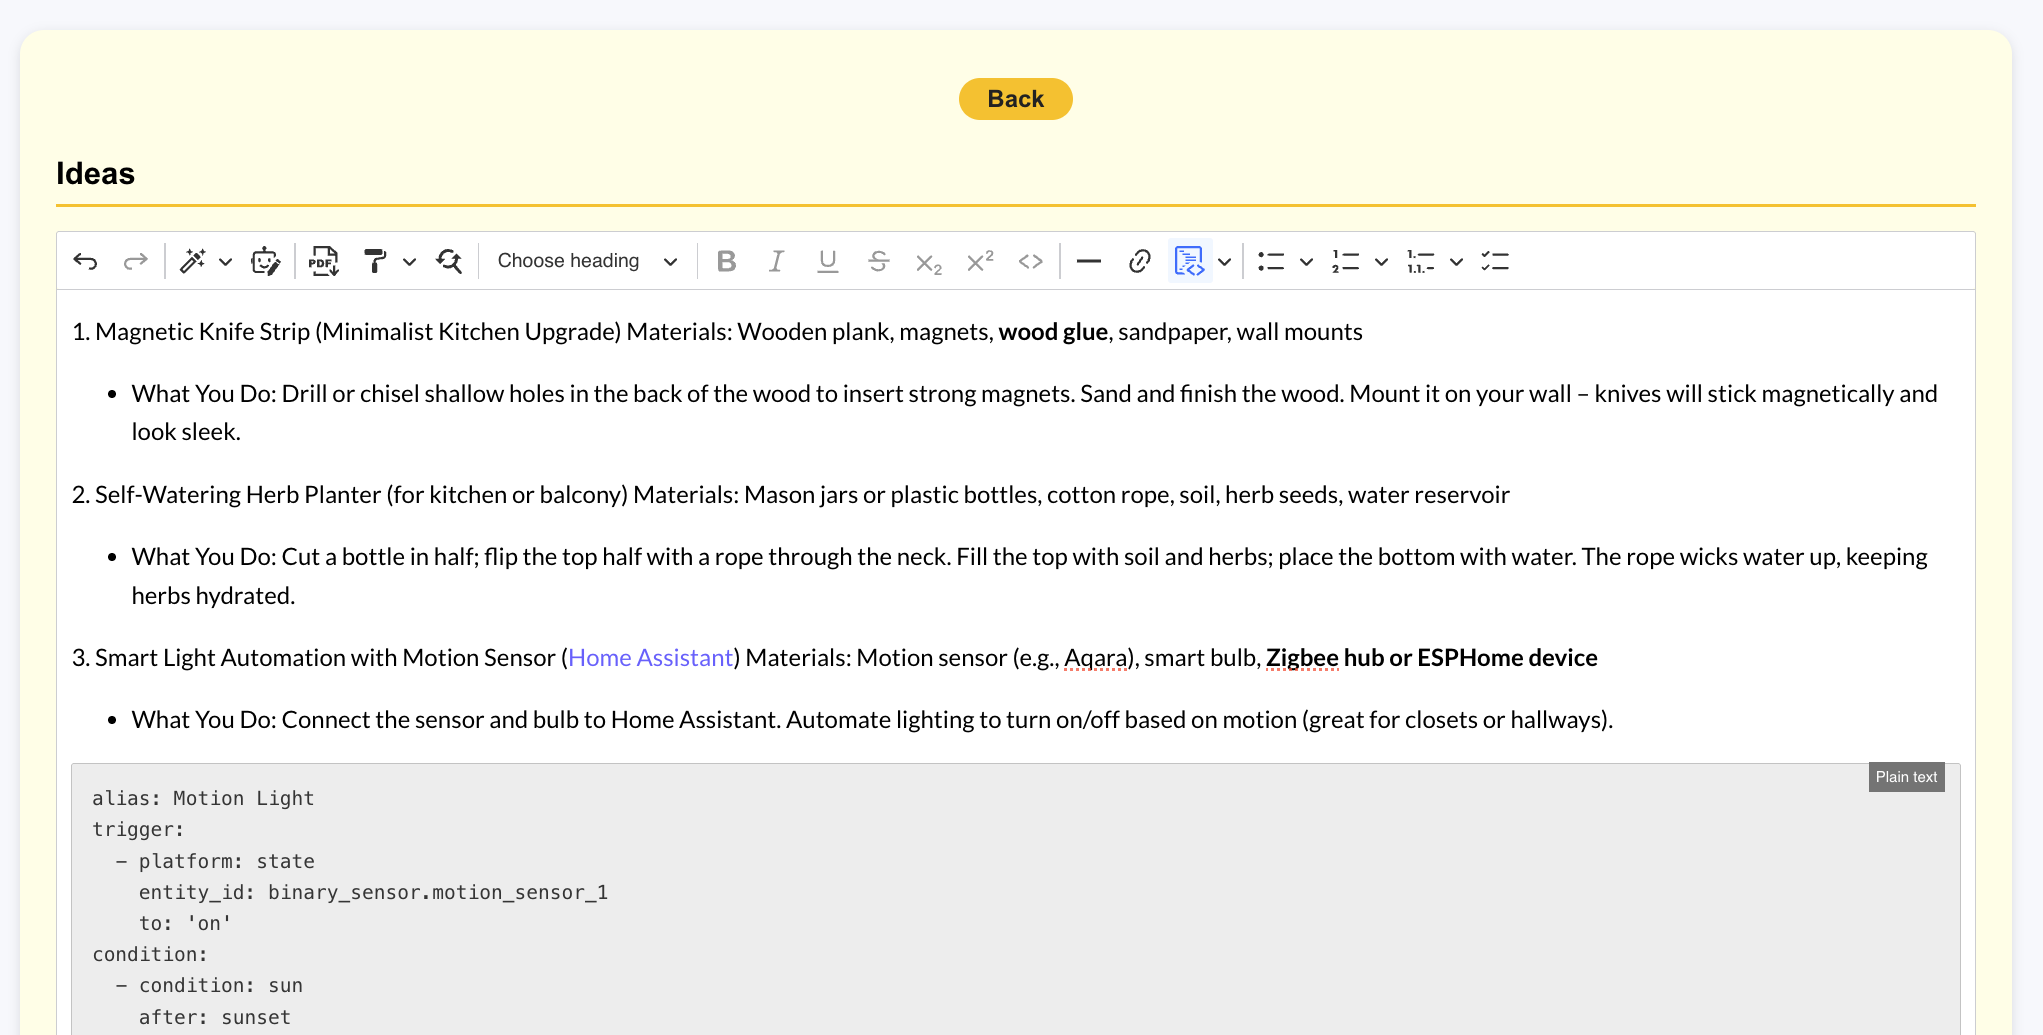
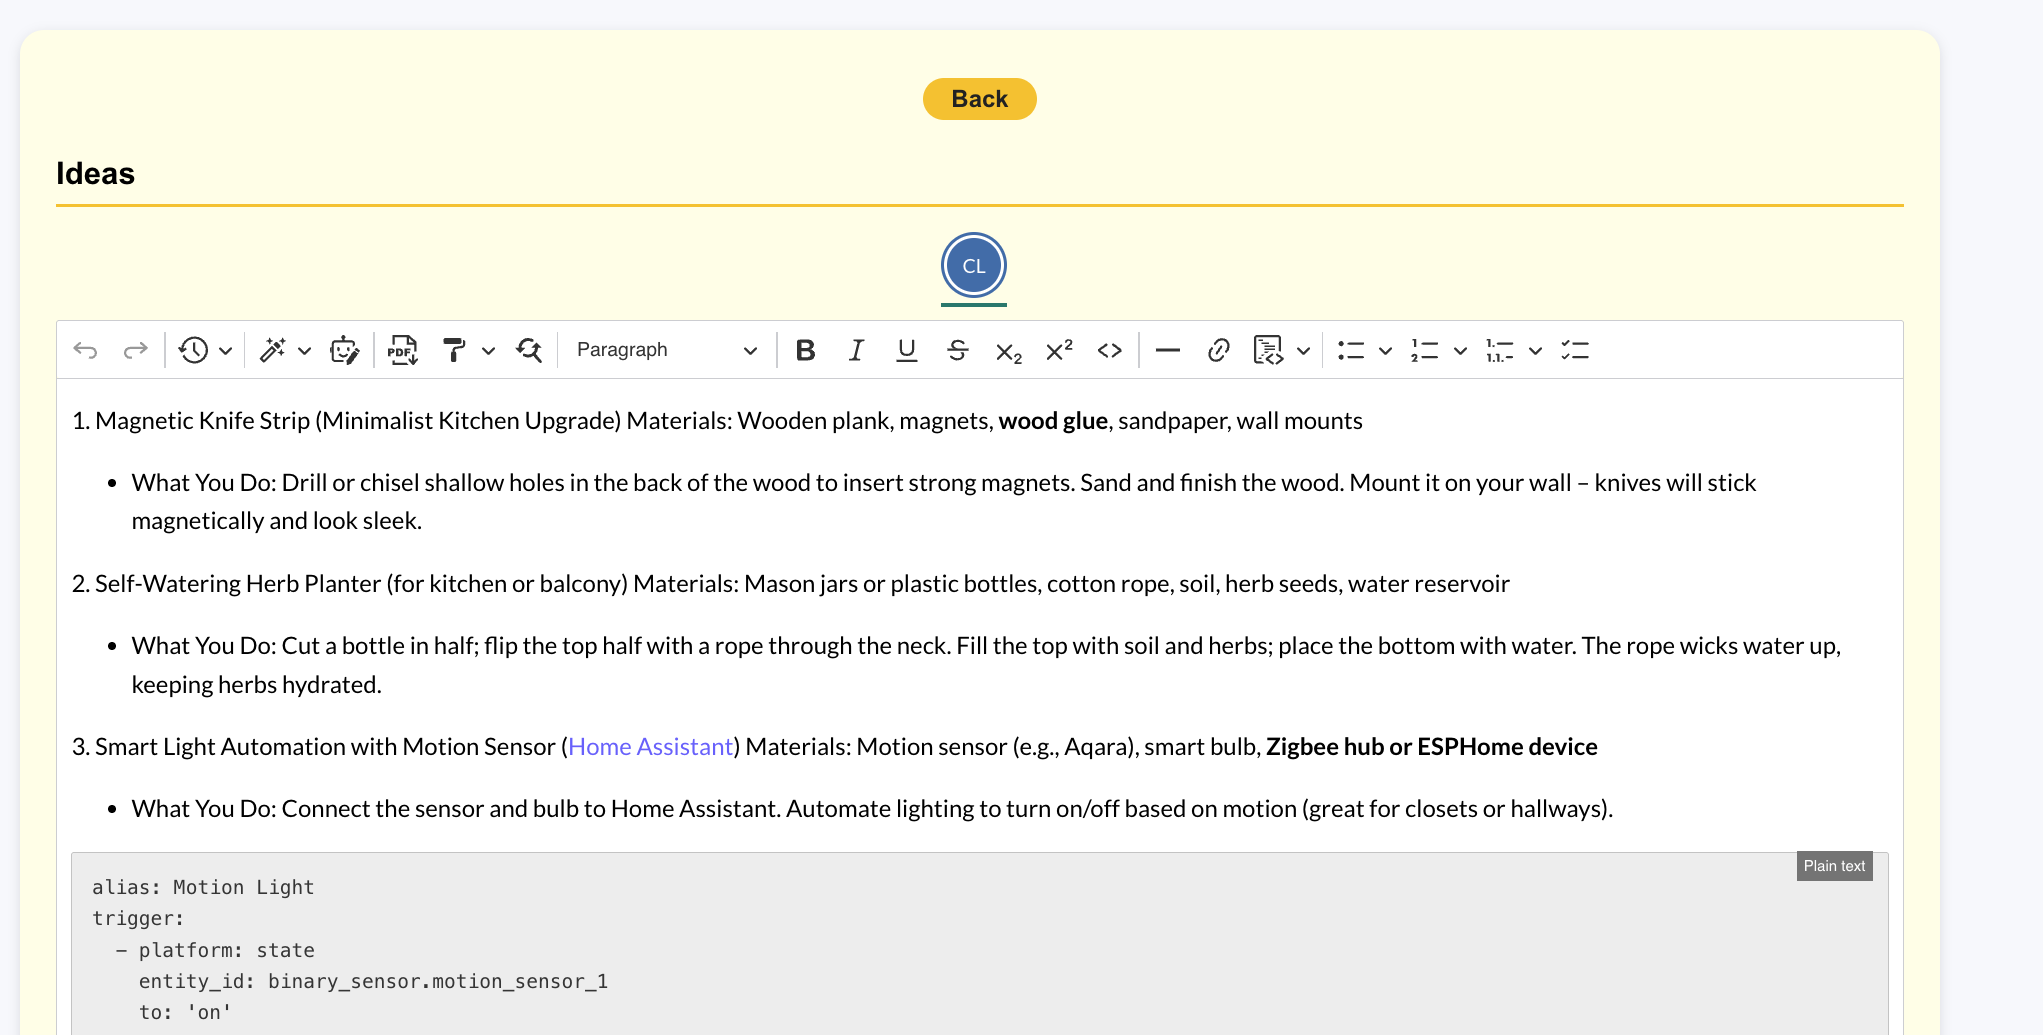
adjust readme to contain collaboration feater description

diff --git a/README.md b/README.md
@@ -29,6 +29,8 @@ A simple note-taking application inspired by [Google Keep](https://keep.google.c
     - AI Assistant
     - Export to PDF
     - Multi-level Lists
+    - Real-time Collaborative Editing (Co-Authoring)
+    - Real-time Collaborative Revision History
 
 > [!TIP]
 > Check the [full configuration and it's preview right in the CKEditor builder](https://ckeditor.com/ckeditor-5/builder/?redirect=portal#installation/NodgNARATAdAbDADBSIAsIRQMwkXAVjTTlMQE4jsMo4BGORIgDkzUWbRQgFMA7FIjDA6YIeLFg6AXUg8oAIzwFsEaUA=)
@@ -51,7 +53,7 @@ A simple note-taking application inspired by [Google Keep](https://keep.google.c
 
 ```bash
 git clone https://github.com/Simply007/ondrejs-notes.git
-cd ondrejs-notes 
+cd ondrejs-notes
 npm install
 # or
 yarn install
@@ -61,9 +63,13 @@ yarn install
 
 ```bash
 cp .env.example .env
-# set VITE_AI_API_KEY variable from https://platform.openai.com/api-keys
-# set VITE_CK_EDITOR_LICENSE_KEY variable from https://portal.ckeditor.com/ > Subscriptions > License keys
 ```
+
+Set:
+
+- `VITE_AI_API_KEY` from <https://platform.openai.com/api-keys>
+- `VITE_CK_EDITOR_LICENSE_KEY` from <https://portal.ckeditor.com> > Subscriptions > License keys
+- `VITE_CLOUD_SERVICES_WEBSOCKET_URL` and `VITE_CLOUD_SERVICE_TOKEN_URL` from <https://portal.ckeditor.com> > Subscription > Cloud environment -> View <YOUR ENVIRONMENT> > CKEditor configuration
 
 ⚠ The showcase is ready for development purposes. For production environment, you need to implement the [API Proxy endpoint to API key exchange](https://ckeditor.com/docs/ckeditor5/latest/features/ai-assistant/ai-assistant-integration.html#using-proxy-endpoint).
 
@@ -75,7 +81,7 @@ npm run dev
 yarn dev
 ```
 
-The app will be available at [http://localhost:5173](http://localhost:5173).
+🎉 The app is be available at  [http://localhost:5173](http://localhost:5173) 🎉
 
 ## Linting and Formatting
 
